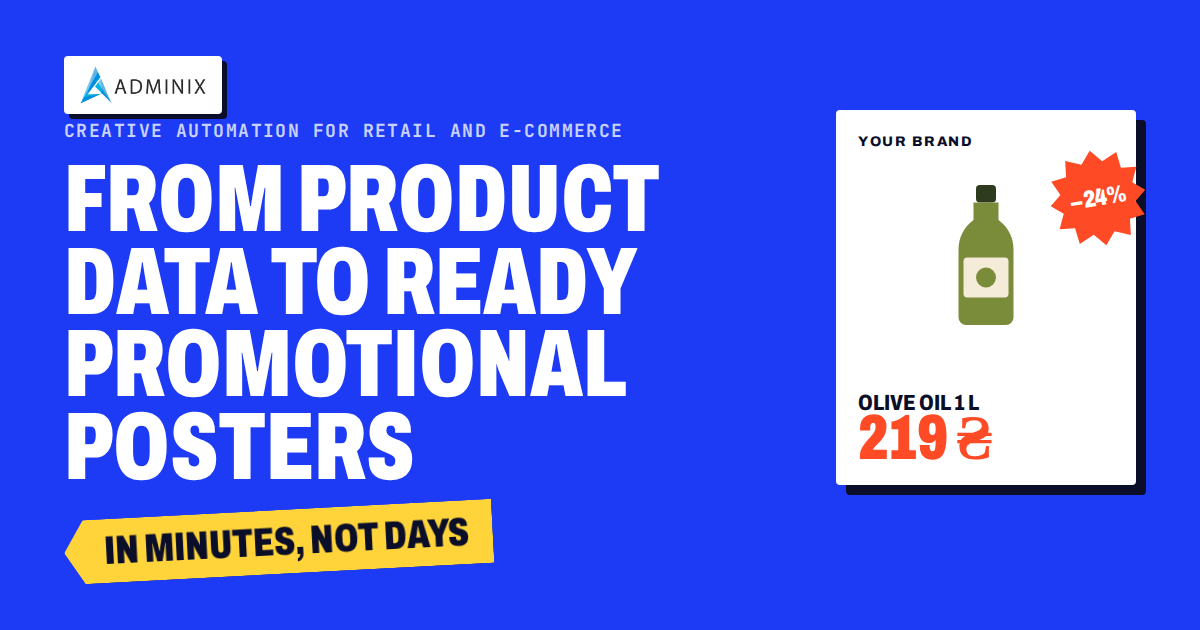
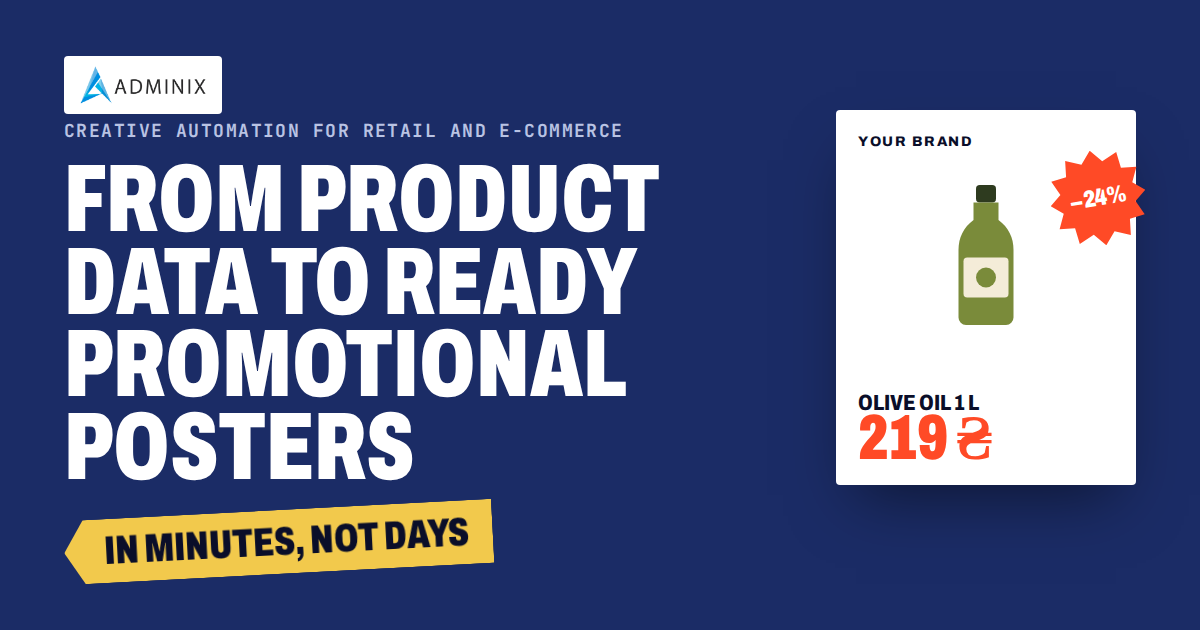
Calmer enterprise palette
Deep navy-blue instead of electric blue for hero, How it works and CTA;
warm amber only for primary buttons, the price tag and Adminix
highlights; yellow bands removed (ticker is a quiet navy strip, Who
it's for and Solution are white, FAQ is light). Thin neutral card
borders and soft shadows replace the hard offset shadows; flat
buttons; standard blue focus ring on fields. OG image and theme color
updated to match.

Claude-Session: https://claude.ai/code/session_018oeJe16JmR66FiRhSxBqC2

diff --git a/styles.css b/styles.css
@@ -7,15 +7,16 @@
    ========================================================================== */
 
 :root {
-  --signal: #1D3BF5;      /* Adminix blue, pushed to full saturation */
-  --signal-deep: #142BC4;
-  --ink: #0A0E29;
+  --signal: #1B2C66;      /* deep Adminix navy-blue: hero, How it works, final CTA */
+  --signal-deep: #142252;
+  --accent: #2F5BEA;      /* Adminix blue for links, labels and small highlights */
+  --ink: #0D1530;
   --paper: #FFFFFF;
-  --mist: #C9D2FF;        /* secondary text on blue / ink */
-  --light: #F3F4FA;       /* light band, slight blue bias */
-  --line: #D9DCEB;
-  --muted: #565C7A;
-  --tag: #FFD43B;         /* shelf-tag yellow */
+  --mist: #B9C3E3;        /* secondary text on navy */
+  --light: #F5F6FA;       /* light band, slight blue bias */
+  --line: #E1E4EE;
+  --muted: #5A6180;
+  --tag: #F2C94C;         /* warm amber: primary buttons, the price tag, Adminix highlights */
   --stamp: #FF4A26;       /* discount red (sample retailer creative) */
   --ok: #12A150;
 
@@ -23,7 +24,7 @@
   --body: "Archivo", "Helvetica Neue", Arial, sans-serif;
   --mono: "JetBrains Mono", ui-monospace, "SFMono-Regular", Menlo, Consolas, monospace;
 
-  --shadow: 6px 6px 0 var(--ink);
+  --shadow: 0 1px 2px rgba(13,21,48,.06), 0 10px 30px -12px rgba(13,21,48,.18);  /* soft card shadow */
   --section-y: clamp(72px, 9vw, 128px);
   color-scheme: light;
 }
@@ -48,7 +49,7 @@ h1 { font-size: clamp(50px, 6.2vw, 96px); line-height: .86; font-stretch: 68%; }
 h2 { font-size: clamp(40px, 5.6vw, 80px); line-height: .9; }
 h3 { font-size: clamp(24px, 2.2vw, 30px); line-height: 1; font-stretch: 75%; }
 :focus-visible { outline: 3px solid var(--tag); outline-offset: 3px; }
-.light :focus-visible, .tagband :focus-visible, .lead-form :focus-visible { outline-color: var(--signal); }
+.light :focus-visible, .white :focus-visible, .lead-form :focus-visible { outline-color: var(--signal); }
 
 .wrap { width: 100%; max-width: 1280px; margin: 0 auto; padding-inline: max(16px, 4vw); }
 
@@ -60,7 +61,7 @@ h3 { font-size: clamp(24px, 2.2vw, 30px); line-height: 1; font-stretch: 75%; }
 
 .label {
   display: flex; align-items: center; gap: 10px; margin-bottom: 20px;
-  font: 600 13px/1.4 var(--mono); letter-spacing: .08em; text-transform: uppercase; color: var(--signal);
+  font: 600 13px/1.4 var(--mono); letter-spacing: .08em; text-transform: uppercase; color: var(--accent);
 }
 .dark .label, .cta .label { color: var(--tag); }
 .lede { font-size: clamp(17px, 1.5vw, 20px); color: #E4E8FF; max-width: 34em; }
@@ -73,14 +74,14 @@ h3 { font-size: clamp(24px, 2.2vw, 30px); line-height: 1; font-stretch: 75%; }
   background: var(--tag); color: var(--ink);
   font: 800 16px/1 var(--display); font-stretch: 85%; text-transform: uppercase; letter-spacing: .02em;
   text-decoration: none; cursor: pointer;
-  box-shadow: 4px 4px 0 var(--ink);
+  box-shadow: none;
   transition: transform .12s ease, box-shadow .12s ease;
 }
-.btn:hover { transform: translate(-2px, -2px); box-shadow: 6px 6px 0 var(--ink); }
-.btn:active { transform: translate(2px, 2px); box-shadow: 2px 2px 0 var(--ink); }
-.btn-sm { min-height: 40px; padding: 0 16px; font-size: 14px; box-shadow: 3px 3px 0 var(--ink); white-space: nowrap; flex: none; }
+.btn:hover { background: #E9BC33; }
+.btn:active { transform: translateY(1px); }
+.btn-sm { min-height: 40px; padding: 0 16px; font-size: 14px; box-shadow: none; white-space: nowrap; flex: none; }
 .btn-ghost { background: transparent; color: var(--paper); box-shadow: none; outline: 2px solid rgba(255,255,255,.55); outline-offset: -2px; }
-.btn-ghost:hover { transform: none; box-shadow: none; outline-color: var(--paper); }
+.btn-ghost:hover { background: rgba(255,255,255,.08); outline-color: var(--paper); }
 .btn-block { width: 100%; }
 .btn[disabled] { opacity: .65; cursor: progress; }
 
@@ -88,7 +89,7 @@ h3 { font-size: clamp(24px, 2.2vw, 30px); line-height: 1; font-stretch: 75%; }
 .nav { position: sticky; top: 0; z-index: 50; background: var(--signal); color: var(--paper); border-bottom: 1px solid rgba(255,255,255,.14); }
 .nav-inner { display: flex; align-items: center; gap: 28px; height: 68px; }
 /* Logo sits on a white label: the full-color mark and dark wordmark need a light ground. */
-.logo { display: inline-flex; align-items: center; flex: none; padding: 7px 12px; background: var(--paper); border-radius: 3px; box-shadow: 3px 3px 0 var(--ink); }
+.logo { display: inline-flex; align-items: center; flex: none; padding: 7px 12px; background: var(--paper); border-radius: 3px; box-shadow: none; }
 .logo img { height: 26px; width: auto; }
 .nav-links { display: none; gap: 28px; margin-left: auto; font: 500 13px/1 var(--mono); text-transform: uppercase; letter-spacing: .06em; }
 .nav-links a { text-decoration: none; color: var(--mist); }
@@ -106,7 +107,7 @@ h3 { font-size: clamp(24px, 2.2vw, 30px); line-height: 1; font-stretch: 75%; }
 .hero .lede { max-width: 30em; }
 .actions { display: flex; flex-wrap: wrap; gap: 14px; margin-top: 28px; }
 @media (max-width: 520px) { .actions .btn { width: 100%; } }
-.hero-video { width: 100%; height: auto; margin-top: clamp(56px, 7vw, 96px); border-radius: 4px; box-shadow: 8px 8px 0 var(--ink); }
+.hero-video { width: 100%; height: auto; margin-top: clamp(56px, 7vw, 96px); border-radius: 4px; box-shadow: 3px 3px 0 rgba(13,21,48,.85); }
 
 /* Price tag hanging on a white string that runs from its punched hole. */
 .tag-wrap { position: relative; justify-self: start; align-self: start; margin-top: 6px; }
@@ -121,7 +122,7 @@ h3 { font-size: clamp(24px, 2.2vw, 30px); line-height: 1; font-stretch: 75%; }
   font: 850 clamp(26px, 3vw, 40px)/1 var(--display); font-stretch: 72%; text-transform: uppercase;
   clip-path: polygon(22px 0, 100% 0, 100% 100%, 22px 100%, 0 50%);
   transform: rotate(-4deg); transform-origin: 25px 50%;
-  filter: drop-shadow(5px 6px 0 var(--ink));
+  filter: drop-shadow(3px 4px 0 rgba(13,21,48,.6));
   transition: transform .4s cubic-bezier(.3, 1.6, .5, 1);
 }
 .tag-wrap:hover .tag { transform: rotate(2deg); }
@@ -136,7 +137,7 @@ h3 { font-size: clamp(24px, 2.2vw, 30px); line-height: 1; font-stretch: 75%; }
 .how .head .sub { color: #E4E8FF; max-width: 44em; }
 
 /* Today vs With Adminix: one clean table on a white card */
-.vs { max-width: 1040px; background: var(--paper); color: var(--ink); border-radius: 4px; box-shadow: 8px 8px 0 var(--signal); overflow: hidden; }
+.vs { max-width: 1040px; background: var(--paper); color: var(--ink); border: 1px solid var(--line); border-radius: 6px; box-shadow: var(--shadow); overflow: hidden; }
 .vs table { width: 100%; border-collapse: collapse; }
 .vs th, .vs td { padding: 22px 28px; text-align: left; vertical-align: middle; }
 .vs thead th { padding-top: 26px; padding-bottom: 14px; font: 700 13px/1 var(--mono); text-transform: uppercase; letter-spacing: .08em; }
@@ -146,7 +147,7 @@ h3 { font-size: clamp(24px, 2.2vw, 30px); line-height: 1; font-stretch: 75%; }
 .vs tbody th { width: 26%; font: 700 12px/1.35 var(--mono); text-transform: uppercase; letter-spacing: .06em; color: var(--muted); }
 .vs tbody td { width: 37%; font: 800 clamp(22px, 2.3vw, 30px)/1.05 var(--display); font-stretch: 75%; text-transform: uppercase; }
 .vs td.vs-old { color: #9CA1BC; }
-.vs .vs-new { background: var(--tag); }
+.vs .vs-new { background: #FBF3D6; }
 .vs tbody td.vs-new { color: var(--ink); }
 @media (max-width: 699px) {
   .vs thead { display: none; }
@@ -190,7 +191,7 @@ h3 { font-size: clamp(24px, 2.2vw, 30px); line-height: 1; font-stretch: 75%; }
   .arrow { transform: rotate(90deg); margin: 14px 0; }
 }
 
-.blk { position: relative; border-radius: 4px; box-shadow: 5px 5px 0 var(--ink); }
+.blk { position: relative; border-radius: 4px; box-shadow: 3px 3px 0 rgba(13,21,48,.85); }
 .blk-in { background: var(--paper); color: var(--ink); padding: 10px 12px; display: grid; gap: 3px; }
 .blk-in small, .blk-check small { font: 600 10px/1.3 var(--mono); text-transform: uppercase; letter-spacing: .06em; color: var(--muted); }
 .blk-in b { font: 800 17px/1.05 var(--display); font-stretch: 80%; text-transform: uppercase; }
@@ -202,7 +203,7 @@ h3 { font-size: clamp(24px, 2.2vw, 30px); line-height: 1; font-stretch: 75%; }
 .engine-head b { font: 850 24px/1 var(--display); font-stretch: 72%; text-transform: uppercase; }
 .engine-chips { display: flex; flex-wrap: wrap; gap: 6px; }
 .engine-chips span { background: var(--paper); border: 1.5px solid var(--ink); padding: 4px 7px; font: 700 10px/1 var(--mono); text-transform: uppercase; letter-spacing: .04em; }
-.blk-check { display: grid; gap: 8px; justify-items: start; background: var(--ink); color: var(--paper); padding: 16px; box-shadow: 5px 5px 0 var(--tag); }
+.blk-check { display: grid; gap: 8px; justify-items: start; background: var(--ink); color: var(--paper); padding: 16px; box-shadow: 3px 3px 0 var(--tag); }
 .blk-check > b { font: 850 22px/1 var(--display); font-stretch: 75%; text-transform: uppercase; }
 .blk-check small { color: var(--mist); }
 .check-icon { display: grid; place-items: center; width: 34px; height: 34px; background: var(--ok); color: var(--paper); font-weight: 800; font-size: 18px; }
@@ -231,7 +232,7 @@ h3 { font-size: clamp(24px, 2.2vw, 30px); line-height: 1; font-stretch: 75%; }
   8%, 22% { transform: translate(-3px, -3px); }
 }
 
-.poster { position: relative; border-radius: 4px; overflow: hidden; box-shadow: 5px 5px 0 var(--ink); }
+.poster { position: relative; border-radius: 4px; overflow: hidden; box-shadow: 3px 3px 0 rgba(13,21,48,.85); }
 .p45 { aspect-ratio: 4 / 5; background: var(--paper); color: var(--ink); padding: 12px; display: flex; flex-direction: column; }
 .p45 .brand { font: 800 10px/1 var(--display); letter-spacing: .12em; }
 .p45 .art { flex: 1; display: grid; place-items: center; min-height: 0; }
@@ -256,7 +257,7 @@ h3 { font-size: clamp(24px, 2.2vw, 30px); line-height: 1; font-stretch: 75%; }
 .p45[data-sku="0"] .prod-0, .p45[data-sku="1"] .prod-1, .p45[data-sku="2"] .prod-2 { display: block; }
 
 /* ---------- Shelf-edge ticker ---------- */
-.ticker { background: var(--tag); color: var(--ink); border-block: 3px solid var(--ink); overflow: hidden; }
+.ticker { background: var(--ink); color: var(--mist); overflow: hidden; }
 .track { display: flex; width: max-content; animation: run 38s linear infinite; }
 .track span { display: inline-flex; align-items: center; gap: 18px; padding: 14px 18px; font: 700 14px/1 var(--mono); text-transform: uppercase; letter-spacing: .05em; white-space: nowrap; }
 .track span::after { content: "■"; font-size: 9px; }
@@ -279,10 +280,10 @@ h3 { font-size: clamp(24px, 2.2vw, 30px); line-height: 1; font-stretch: 75%; }
 @media (min-width: 960px) { .problem-grid { grid-template-columns: 1.15fr 1fr; align-items: end; } }
 
 .facts { display: grid; grid-template-columns: repeat(2, minmax(0, 1fr)); gap: 16px; margin-top: 28px; }
-.fact { display: flex; flex-direction: column; gap: 10px; background: var(--paper); border: 2px solid var(--ink); border-radius: 4px; padding: 20px; box-shadow: var(--shadow); }
+.fact { display: flex; flex-direction: column; gap: 10px; background: var(--paper); border: 1px solid var(--line); border-radius: 6px; padding: 20px; box-shadow: var(--shadow); }
 .fact strong { font: 900 clamp(40px, 4.2vw, 60px)/.85 var(--display); font-stretch: 66%; white-space: nowrap; }
 .fact span { font: 600 12px/1.4 var(--mono); text-transform: uppercase; letter-spacing: .04em; color: var(--muted); }
-.fact-hot { background: var(--tag); }
+.fact-hot { background: #FBF3D6; border-color: #EAD9A0; }
 .fact-hot span { color: var(--ink); }
 @media (max-width: 420px) { .facts { grid-template-columns: 1fr; } }
 
@@ -292,18 +293,18 @@ h3 { font-size: clamp(24px, 2.2vw, 30px); line-height: 1; font-stretch: 75%; }
 /* Use cases */
 .use-grid { display: grid; gap: 24px; }
 @media (min-width: 760px) { .use-grid { grid-template-columns: repeat(2, minmax(0, 1fr)); } }
-.use { display: flex; flex-direction: column; gap: 10px; background: var(--paper); border: 2px solid var(--ink); border-radius: 4px; padding: 18px 18px 26px; box-shadow: var(--shadow); }
+.use { display: flex; flex-direction: column; gap: 10px; background: var(--paper); border: 1px solid var(--line); border-radius: 6px; padding: 18px 18px 26px; box-shadow: var(--shadow); }
 .use h3, .use p, .use-tag { padding-inline: 6px; }
 .use p { color: var(--muted); font-size: 16px; }
 .use-tag { margin-top: 12px; font: 700 12px/1 var(--mono); text-transform: uppercase; letter-spacing: .08em; color: var(--signal); }
 .use-art { position: relative; height: 200px; overflow: hidden; background: var(--light); border-radius: 2px; }
-.ap { position: absolute; display: flex; flex-direction: column; padding: 12px; border-radius: 3px; box-shadow: 4px 4px 0 var(--ink); }
+.ap { position: absolute; display: flex; flex-direction: column; padding: 12px; border-radius: 3px; box-shadow: 3px 3px 0 rgba(13,21,48,.85); }
 .ap small { font: 700 9px/1.2 var(--mono); letter-spacing: .06em; text-transform: uppercase; }
 .ap b { font: 900 34px/.9 var(--display); font-stretch: 70%; }
 .ap-a { width: 120px; height: 150px; left: calc(50% - 130px); top: 22px; background: var(--stamp); color: var(--paper); justify-content: space-between; transform: rotate(-5deg); }
 .ap-b { width: 112px; height: 136px; left: calc(50% + 8px); top: 32px; background: var(--tag); color: var(--ink); justify-content: flex-end; transform: rotate(4deg); }
 .ap-b b { font-size: 30px; }
-.af { position: absolute; display: grid; place-items: center; border-radius: 3px; font: 700 10px/1 var(--mono); box-shadow: 4px 4px 0 var(--ink); }
+.af { position: absolute; display: grid; place-items: center; border-radius: 3px; font: 700 10px/1 var(--mono); box-shadow: 3px 3px 0 rgba(13,21,48,.85); }
 .af-1 { width: 96px; height: 96px; left: calc(50% - 160px); top: 52px; background: var(--signal); color: var(--paper); }
 .af-2 { width: 120px; height: 64px; left: calc(50% - 52px); top: 36px; background: var(--paper); color: var(--ink); border: 2px solid var(--ink); }
 .af-3 { width: 60px; height: 106px; left: calc(50% + 80px); top: 46px; background: var(--ink); color: var(--paper); font-size: 8px; }
@@ -312,22 +313,20 @@ h3 { font-size: clamp(24px, 2.2vw, 30px); line-height: 1; font-stretch: 75%; }
 .art-locales span { flex: none; min-width: 72px; font: 700 11px/1 var(--mono); color: var(--signal); text-transform: uppercase; }
 .art-locales b { font-weight: 700; font-size: 15px; }
 .art-sku { display: flex; align-items: center; justify-content: center; gap: 18px; }
-.sku-img { width: 92px; height: 120px; border-radius: 3px; background: linear-gradient(150deg, #E9A92C, #C98C18); box-shadow: 4px 4px 0 var(--ink); position: relative; }
+.sku-img { width: 92px; height: 120px; border-radius: 3px; background: linear-gradient(150deg, #E9A92C, #C98C18); box-shadow: 3px 3px 0 rgba(13,21,48,.85); position: relative; }
 .sku-img::after { content: ""; position: absolute; left: 20px; right: 20px; top: 46px; height: 40px; border-radius: 50%; background: #F4ECD8; }
 .art-sku small { display: block; font: 400 12px/1.2 var(--mono); color: var(--muted); }
 .art-sku b { display: block; font: 900 40px/1 var(--display); font-stretch: 70%; margin: 4px 0 6px; }
 
 /* Yellow band (Who it's for) */
-.tagband { background: var(--tag); color: var(--ink); border-block: 3px solid var(--ink); }
-.tagband .label { color: var(--ink); }
-.tagband .fit { color: #3B3A1E; }
+.white { background: var(--paper); color: var(--ink); }
 
 /* Who it's for */
 .personas { display: grid; gap: 20px; }
 @media (min-width: 820px) { .personas { grid-template-columns: repeat(3, minmax(0, 1fr)); } }
 .persona {
   position: relative; display: grid; gap: 12px; align-content: start;
-  background: var(--paper); border: 2px solid var(--ink); border-radius: 4px; padding: 24px 24px 28px; box-shadow: var(--shadow);
+  background: var(--paper); border: 1px solid var(--line); border-radius: 6px; padding: 24px 24px 28px; box-shadow: var(--shadow);
 }
 .persona-for { justify-self: start; background: var(--ink); color: var(--tag); font: 700 11px/1 var(--mono); text-transform: uppercase; letter-spacing: .1em; padding: 5px 8px; }
 .persona h3 { font-size: clamp(28px, 2.6vw, 36px); }
@@ -338,8 +337,8 @@ h3 { font-size: clamp(24px, 2.2vw, 30px); line-height: 1; font-stretch: 75%; }
 /* FAQ */
 .faq-grid { display: grid; gap: 8px 64px; }
 @media (min-width: 960px) { .faq-grid { grid-template-columns: minmax(0, .8fr) minmax(0, 1.2fr); align-items: start; } }
-.faq-list { border-bottom: 1px solid rgba(255,255,255,.2); }
-.qa { border-top: 1px solid rgba(255,255,255,.2); }
+.faq-list { border-bottom: 1px solid var(--line); }
+.qa { border-top: 1px solid var(--line); }
 .qa summary {
   display: flex; justify-content: space-between; align-items: center; gap: 24px;
   padding: 22px 0; cursor: pointer; list-style: none;
@@ -348,8 +347,8 @@ h3 { font-size: clamp(24px, 2.2vw, 30px); line-height: 1; font-stretch: 75%; }
 .qa summary::-webkit-details-marker { display: none; }
 .qa summary::after { content: "+"; flex: none; display: grid; place-items: center; width: 32px; height: 32px; background: var(--tag); color: var(--ink); font: 700 20px/1 var(--mono); transition: transform .2s ease; }
 .qa[open] summary::after { transform: rotate(45deg); }
-.qa summary:hover { color: var(--tag); }
-.qa p { padding: 0 56px 24px 0; color: var(--mist); font-size: 17px; max-width: 40em; }
+.qa summary:hover { color: var(--accent); }
+.qa p { padding: 0 56px 24px 0; color: var(--muted); font-size: 17px; max-width: 40em; }
 
 /* CTA */
 .cta { background: var(--signal); color: var(--paper); }
@@ -361,14 +360,14 @@ h3 { font-size: clamp(24px, 2.2vw, 30px); line-height: 1; font-stretch: 75%; }
 .ticks li { display: flex; gap: 12px; align-items: flex-start; }
 .ticks li::before { content: "✓"; flex: none; display: grid; place-items: center; width: 22px; height: 22px; background: var(--tag); color: var(--ink); font-weight: 700; }
 
-.lead-form { position: relative; display: grid; gap: 16px; background: var(--paper); color: var(--ink); border-radius: 4px; padding: clamp(22px, 4vw, 32px); box-shadow: 10px 10px 0 var(--ink); }
+.lead-form { position: relative; display: grid; gap: 16px; background: var(--paper); color: var(--ink); border-radius: 4px; padding: clamp(22px, 4vw, 32px); box-shadow: 0 20px 50px -20px rgba(0,0,0,.45); }
 .field { display: grid; gap: 6px; }
 .field > span { font: 700 12px/1.3 var(--mono); text-transform: uppercase; letter-spacing: .06em; }
 .field em { font-style: normal; font-weight: 400; color: var(--muted); text-transform: none; }
 .field input, .field select {
   width: 100%; height: 50px; padding: 0 14px;
   font: 400 16px/1 var(--body); color: var(--ink);
-  background: var(--light); border: 2px solid var(--ink); border-radius: 3px;
+  background: var(--light); border: 1px solid #C9CFDF; border-radius: 6px;
   -webkit-appearance: none; appearance: none; transition: box-shadow .12s ease, background .12s ease;
 }
 .field select {
@@ -376,7 +375,7 @@ h3 { font-size: clamp(24px, 2.2vw, 30px); line-height: 1; font-stretch: 75%; }
   background-repeat: no-repeat; background-position: right 14px center; background-size: 16px; padding-right: 40px;
 }
 .field input::placeholder { color: #8A90B0; }
-.field input:focus, .field select:focus { outline: none; background: var(--paper); box-shadow: 4px 4px 0 var(--signal); }
+.field input:focus, .field select:focus { outline: none; background: var(--paper); border-color: var(--accent); box-shadow: 0 0 0 3px rgba(47,91,234,.18); }
 .lead-form .btn { margin-top: 6px; }
 .form-note { font: 400 12px/1.5 var(--mono); color: var(--muted); text-align: center; }
 .form-status { font-weight: 600; text-align: center; }
@@ -390,7 +389,7 @@ h3 { font-size: clamp(24px, 2.2vw, 30px); line-height: 1; font-stretch: 75%; }
 /* ---------- Footer ---------- */
 .footer { background: var(--ink); color: var(--paper); padding-block: 32px calc(32px + env(safe-area-inset-bottom)); }
 .footer-inner { display: flex; flex-wrap: wrap; align-items: center; gap: 16px 32px; }
-.logo-small { padding: 6px 10px; box-shadow: 3px 3px 0 var(--signal); }
+.logo-small { padding: 6px 10px; }
 .logo-small img { height: 20px; }
 .footer-links { display: flex; gap: 24px; margin-left: auto; font: 500 13px/1 var(--mono); }
 .footer-links a { color: var(--mist); text-decoration: none; }

diff --git a/index.html b/index.html
@@ -5,7 +5,7 @@
   <meta name="viewport" content="width=device-width, initial-scale=1">
   <title>Adminix — Promo creatives from your product feed, in minutes</title>
   <meta name="description" content="Adminix connects to your ERP, e-commerce feed or Excel and turns every SKU into brand-compliant, AI-checked promo posters and banners for every channel. Creative automation built for retail chains.">
-  <meta name="theme-color" content="#1D3BF5">
+  <meta name="theme-color" content="#1B2C66">
 
   <!-- PLACEHOLDER(domain): replace https://adminix.example with the production URL (canonical + og:url + og:image). -->
   <link rel="canonical" href="https://adminix.example/">
@@ -100,7 +100,7 @@
     </section>
 
     <!-- 3. SOLUTION: today vs with Adminix ============================== -->
-    <section class="section dark solution" id="solution">
+    <section class="section white solution" id="solution">
       <div class="wrap">
         <div class="head">
           <p class="label">The solution</p>
@@ -248,7 +248,7 @@
     </section>
 
     <!-- 6. WHO IT'S FOR ==================================================== -->
-    <section class="section tagband" id="who">
+    <section class="section white" id="who">
       <div class="wrap">
         <div class="head">
           <p class="label">Who it's for</p>
@@ -276,7 +276,7 @@
     </section>
 
     <!-- 7. FAQ ========================================================== -->
-    <section class="section dark faq" id="faq">
+    <section class="section light faq" id="faq">
       <div class="wrap faq-grid">
         <div class="head">
           <p class="label">FAQ</p>

diff --git a/README.md b/README.md
@@ -54,4 +54,4 @@ Also check:
 
 ## Customizing
 
-- **Colors and fonts:** the tokens at the top of `styles.css`. The look is retail signage: `--signal` (Adminix blue at full saturation) for the hero and closing bands, `--ink` for How It Works and the footer, `--tag` (shelf-tag yellow) for buttons, the price tag, the ticker and the Who it's for band. Headlines use Archivo at a condensed width; labels and data use JetBrains Mono. The red inside the posters is the sample retailer's color, not Adminix's.
+- **Colors and fonts:** the tokens at the top of `styles.css`. Calm enterprise palette: `--signal` (deep Adminix navy-blue) for the hero, How it works and final CTA bands; white and light-gray content sections; `--accent` (Adminix blue) for labels and focus states; `--tag` (warm amber) only for primary buttons, the hanging price tag and the Adminix highlights. Headlines use Archivo at a condensed width; labels and data use JetBrains Mono. The red inside the sample posters is the sample retailer's color, not Adminix's.
